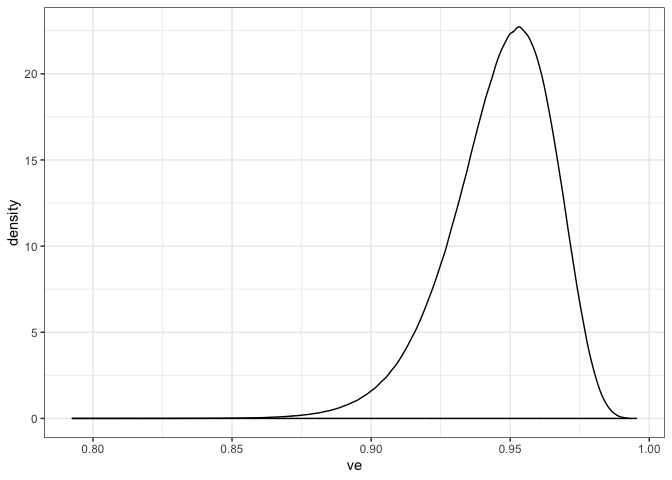
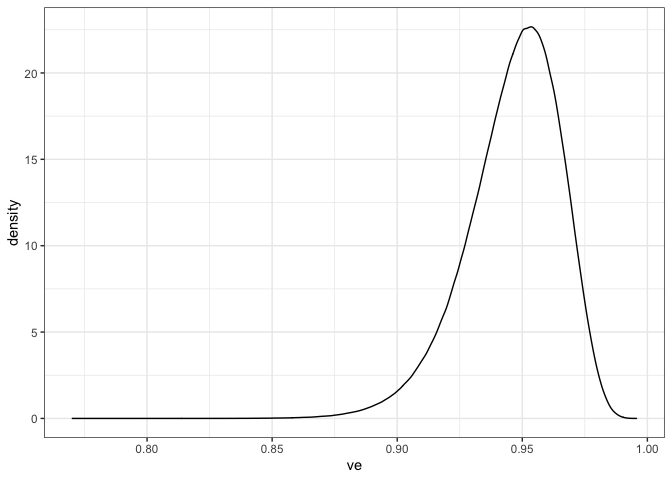
fix ci level

diff --git a/README.md b/README.md
@@ -11,7 +11,7 @@ likely to report.
 
 Because randomization is 1:1 in Pfizer’s protocol, VE can be
 approximated as follows: given N observed study endpoints (in this case,
-symptomatic COVID-19 disease), VE \~ 1 - v/p, where v is the number of
+symptomatic COVID-19 disease), VE ~ 1 - v/p, where v is the number of
 endpoints observed in the vaccine arm and p is the number in the placebo
 arm. In Pfizer’s protocol, they specify a Beta(a, b) prior for theta =
 (1-VE) / (2-VE), where a = 0.700102 and b = 1. Note that theta = v /
@@ -80,10 +80,10 @@ knitr::kable(cbind(vax_cases, pt_est_ci), row.names = FALSE,
 | 4         | 0.948 (0.849, 0.991) |
 | 5         | 0.936 (0.828, 0.987) |
 | 6         | 0.924 (0.806, 0.982) |
-| 7         | 0.912 (0.785, 0.976) |
+| 7         | 0.911 (0.785, 0.976) |
 | 8         | 0.899 (0.763, 0.970) |
-| 9         | 0.886 (0.742, 0.964) |
-| 10        | 0.873 (0.720, 0.957) |
+| 9         | 0.886 (0.741, 0.964) |
+| 10        | 0.873 (0.719, 0.957) |
 
 So if this is indeed how Pfizer is reporting, then the likely case split
 given the language in the press announcement seems to be 7 (or 8)
@@ -110,17 +110,22 @@ beta_v <- b + p
 theta_post_samps <- rbeta(5e6, alpha_v, beta_v)
 ve_post_samps <- (1 - 2*theta_post_samps) / (1 - theta_post_samps)
 pt_est <- mean(ve_post_samps)
-ci <- quantile(ve_post_samps, c((1 - ci_level)/2, 1 - (1 - ci_level)/2))
+ci <- quantile(ve_post_samps, c((1 - ci_level_full)/2, 1 - (1 - ci_level_full)/2))
 ```
 
 The results indicate an estimate VE (98.6% credible interval) of 0.946
-(0.878, 0.984).
+(0.889, 0.981).
 
 Here is the full posterior distribution.
 
 ``` r
 ve_dat <- data.frame(ve = ve_post_samps)
 library(ggplot2)
+```
+
+    ## Warning: package 'ggplot2' was built under R version 3.6.2
+
+``` r
 ggplot(ve_dat, aes(ve)) + 
   geom_density() + theme_bw()
 ```
